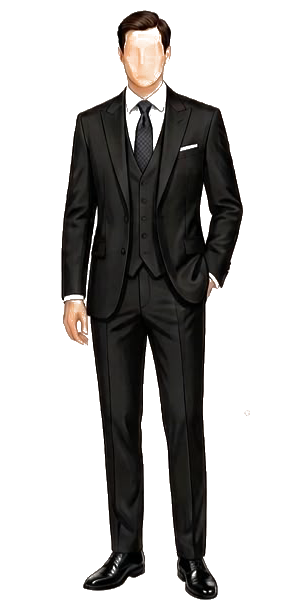
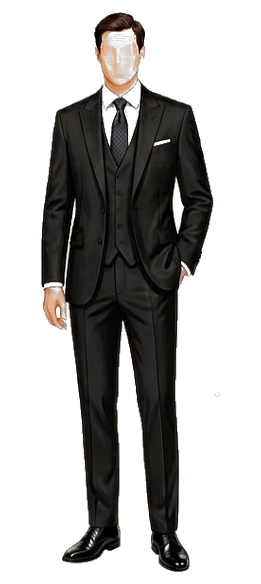
fix: dress code igualado sin sombras, pista del sobre en hielo y scroll de la línea de tiempo
- caballero/dama recortados, huecos internos rellenados y normalizados al mismo lienzo (261x584)
- Quitado el drop-shadow de las ilustraciones; se dimensionan por altura fija
- Pista "Toca para abrir" con el mismo acabado de hielo que los botones
- Línea de tiempo: scrub 1:1 (sin arrastre), reposo al entrar y salida limpia del pin

diff --git a/index.html b/index.html
@@ -302,8 +302,8 @@ section{padding:62px 26px;position:relative;}
   box-shadow:0 10px 30px rgba(0,86,214,.14),inset 0 1px 0 rgba(255,255,255,.95);}
 .dc-card::after{content:'';position:absolute;top:0;left:0;right:0;height:2px;pointer-events:none;
   background:linear-gradient(90deg,transparent,rgba(255,255,255,.98) 26%,rgba(212,175,55,.45) 50%,rgba(255,255,255,.98) 74%,transparent);}
-.dc-card img{width:100%;max-width:132px;height:auto;display:block;
-  filter:drop-shadow(0 6px 14px rgba(0,26,110,.28));}
+/* mismo lienzo 261x584 en ambos: al fijar la altura quedan idénticos, sin sombra */
+.dc-card img{height:190px;width:auto;display:block;}
 .dc-card figcaption{display:flex;flex-direction:column;align-items:center;gap:3px;}
 .dc-card-lbl{font-family:'Cinzel',serif;font-size:12px;font-weight:600;letter-spacing:2.5px;text-transform:uppercase;color:var(--dark);}
 .dc-card-sub{font-family:'Cormorant Garamond',serif;font-style:italic;font-size:14px;color:var(--ink-soft);}
@@ -467,8 +467,27 @@ footer .fd{font-family:'Cormorant Garamond',serif;font-style:italic;font-size:14
 #env-image{position:absolute;inset:0;width:100%;height:100%;object-fit:cover;object-position:center;z-index:2;transform:scale(1.18);}
 #env-video{position:absolute;inset:0;width:100%;height:100%;object-fit:cover;object-position:center;z-index:3;opacity:0;transform:scale(1.18);}
 #env-flash{position:fixed;inset:0;background:#fff;z-index:9999;opacity:0;pointer-events:none;}
-.envelope-hint{position:absolute;bottom:50px;left:50%;transform:translateX(-50%);font-family:'Cormorant Garamond',serif;font-size:12px;letter-spacing:5px;text-transform:uppercase;color:rgba(0,86,214,.85);opacity:0;cursor:pointer;white-space:nowrap;z-index:10;text-shadow:0 1px 4px rgba(255,255,255,.6);}
-.envelope-hint::after{content:'';display:block;width:32px;height:1px;background:linear-gradient(90deg,transparent,rgba(0,86,214,.5),transparent);margin:10px auto 0;animation:hintPulse 2.2s ease-in-out infinite;}
+/* pista del sobre con el mismo acabado de hielo que los botones */
+.envelope-hint{position:absolute;bottom:46px;left:50%;transform:translateX(-50%);
+  padding:14px 34px;border-radius:30px;overflow:hidden;isolation:isolate;
+  font-family:'Cinzel',serif;font-size:11.5px;font-weight:600;letter-spacing:3px;text-transform:uppercase;
+  color:var(--dark);opacity:0;cursor:pointer;white-space:nowrap;z-index:10;
+  background:linear-gradient(150deg,rgba(255,255,255,.96) 0%,rgba(226,244,255,.9) 38%,rgba(186,220,252,.86) 72%,rgba(255,255,255,.94) 100%);
+  border:1px solid rgba(255,255,255,.9);
+  box-shadow:0 6px 18px rgba(0,86,214,.22),0 0 0 1px rgba(0,86,214,.16),
+    inset 0 1px 2px rgba(255,255,255,1),inset 0 -6px 14px rgba(0,86,214,.14);
+  backdrop-filter:blur(6px);-webkit-backdrop-filter:blur(6px);
+  text-shadow:0 1px 0 rgba(255,255,255,.95);}
+/* facetas de hielo */
+.envelope-hint::before{content:'';position:absolute;inset:0;pointer-events:none;z-index:-1;
+  background:
+    linear-gradient(115deg,transparent 0 18%,rgba(255,255,255,.55) 18% 22%,transparent 22% 46%,rgba(255,255,255,.35) 46% 49%,transparent 49%),
+    linear-gradient(200deg,transparent 0 58%,rgba(203,240,255,.5) 58% 63%,transparent 63%);}
+/* destello que barre el cristal */
+.envelope-hint::after{content:'';position:absolute;top:-60%;bottom:-60%;width:34%;left:-40%;pointer-events:none;z-index:-1;
+  background:linear-gradient(90deg,transparent,rgba(255,255,255,.85),transparent);
+  transform:skewX(-18deg);animation:btnsheen 5.5s ease-in-out infinite;}
+@media (prefers-reduced-motion:reduce){.envelope-hint::after{animation:none;}}
 @keyframes hintPulse{0%,100%{opacity:.4;width:32px;}50%{opacity:1;width:54px;}}
 
 .rv{will-change:transform,opacity;}
@@ -1423,20 +1442,32 @@ function initSaga(){
     }
   }
 
-  gsap.to(track,{
-    x: function(){ return -distanceToScroll(); },
-    ease:'none',
-    scrollTrigger:{
-      trigger: stage,
-      start:'top top',
-      end: function(){ return '+=' + distanceToScroll(); },
-      pin: true,
-      scrub: 0.7,
-      anticipatePin: 1,
-      invalidateOnRefresh: true,
-      onUpdate: function(self){ updateScene(self.progress); },
-      onRefresh: function(self){ updateScene(self.progress); }
-    }
+  // margen de reposo al entrar y al salir: la primera y la última foto se aprecian
+  // antes de que el riel arranque y después de que termine, sin soltar el pin de golpe
+  // entrada: pausa para apreciar la primera foto · salida: pausa corta y libera
+  var HOLD_IN  = function(){ return Math.round(window.innerHeight * 0.20); };
+  var HOLD_OUT = function(){ return Math.round(window.innerHeight * 0.10); };
+  var setX = gsap.quickSetter(track, 'x', 'px');
+
+  gsap.set(track,{x:0});
+
+  ScrollTrigger.create({
+    trigger: stage,
+    start: 'top top',
+    end: function(){ return '+=' + (distanceToScroll() + HOLD_IN() + HOLD_OUT()); },
+    pin: true,
+    pinSpacing: true,
+    scrub: true,              // 1:1 con el scroll: sin arrastre ni rebote al soltar
+    invalidateOnRefresh: true,
+    onUpdate: function(self){
+      var dist = distanceToScroll(), hin = HOLD_IN();
+      var total = dist + hin + HOLD_OUT();
+      // progreso del riel, con las zonas de reposo recortadas en ambos extremos
+      var p = Math.min(1, Math.max(0, (self.progress * total - hin) / dist));
+      setX(-dist * p);
+      updateScene(p);
+    },
+    onRefresh: function(){ setX(0); updateScene(0); }
   });
 
   // estado inicial
